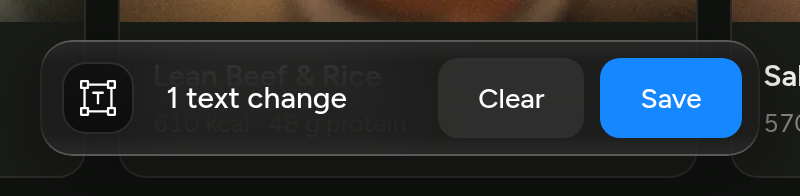
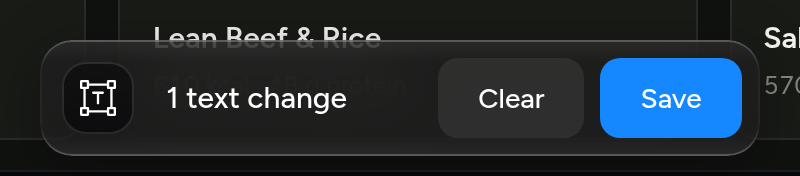
Canvas foot: the preview 2 px above the window, the edit bar 8 px above the preview
The site layer, the canvas window and the sites-shelf clip are absolute and carried their own
bottom-2 (main's padding moved nothing) — all three are bottom-0.5 now, main pb-0.5, the bar host
bottom-[10px]. The Cloud window at 2560 × 1166 is now exactly its board's 1112. Suite checks for the
bar's lift updated (29 → 10); gaps probe in scratchpad/save-bar.

Claude-Session: https://claude.ai/code/session_011pKKmWvMd1NM1LsuubYKqf

diff --git a/prototype/src/App.tsx b/prototype/src/App.tsx
@@ -705,7 +705,7 @@ function CanvasPane({ id, tone, canvas, flyer, motion: motionRef, handoff, child
         data-canvas-pane={id}
         data-pane-motion={arrivedAs}
         data-pane-fresh={fresh ? '' : undefined}
-        className="absolute bottom-2 left-2 right-0 top-0 z-10 overflow-hidden rounded-[16px]"
+        className="absolute bottom-0.5 left-2 right-0 top-0 z-10 overflow-hidden rounded-[16px]"
         /* promoted for its lifetime: the clip is written every frame of the unfold, and a layer of its
            own is what keeps that a compositor update, not a repaint of the window */
         style={{ clipPath, opacity, scale, y, transformOrigin: origin, willChange: 'clip-path, transform, opacity', zIndex: inFront ? 11 : undefined }}
@@ -1175,7 +1175,9 @@ export default function App() {
             because it answers container queries, not the browser width — the same
             thing Lovable gets for free from its preview iframe. Mobile is a real
             390px frame centred on the ground, not a scaled-down desktop. */}
-        <main ref={canvasRef} className="relative min-h-0 min-w-0 flex-1 pb-2 pl-2">
+        {/* the preview stands 2 px above the window's bottom edge (designer 02.10.2026, with a
+            zoomed frame: «превью сайта имеет отступ от низу экрана всего 2 px») — was 8 */}
+        <main ref={canvasRef} className="relative min-h-0 min-w-0 flex-1 pb-0.5 pl-2">
           {/*
             * THE PANE UNFOLDS FROM ITS BUTTON, THE SITE RECEDES UNDER IT (designer, 22.09.2026 —
             * motion.ts `canvasPane` / `canvasSite` has the law and the live product's numbers). Both
@@ -1198,7 +1200,7 @@ export default function App() {
                 key="site"
                 data-canvas-site
                 data-site-parked={surface === 'sites' ? '' : undefined}
-                className={`absolute bottom-2 left-2 right-0 top-0 ${surface === 'sites' ? 'z-20 pointer-events-none' : 'z-0'}`}
+                className={`absolute bottom-0.5 left-2 right-0 top-0 ${surface === 'sites' ? 'z-20 pointer-events-none' : 'z-0'}`}
                 /* under an arriving SHEET the site steps back like the card behind an iOS sheet —
                    smaller and a few px UP, the other way from the sheet (motion.ts `canvasSiteSheet`) */
                 variants={reduce ? canvasSiteFade : world.paneMotion === 'sheet' ? canvasSiteSheet : canvasSite}

diff --git a/prototype/src/modules/editor/EditBar.tsx b/prototype/src/modules/editor/EditBar.tsx
@@ -11,7 +11,9 @@
  * rim that is a 24 % → 4 % → 12 % white diagonal — our glass rim — radius 16, shadow 0 8 32 at 33 %,
  * padding 4, two 32 icon buttons (container radius 8, glyph 24) with a 4 gap. Blur 32 is drawn
  * as 16 here: past ~16 px Chrome's backdrop blur gets WORSE, not softer (CLAUDE.md, measured
- * 26.08.2026) — raised to the designer. It stands 29 px above the canvas's bottom edge (board:
+ * 26.08.2026) — raised to the designer. It stands 8 px above the PREVIEW's bottom edge, which stands 2 px
+ * above the window's (designer 02.10.2026, a zoomed frame: «бар с инструментами от низа сайта 8px»; it was 29
+ * above the canvas's edge, read off board 31280:85401 — the old reading kept below for the record) (board:
  * frame at y 1095 in a 1166 frame).
  *
  * WHAT LOVABLE DOES AND WHAT THIS DOES INSTEAD (audits/lovable-visual-edits-teardown.md):
@@ -666,7 +668,7 @@ export function EditBar() {
 
   return (
     <>
-      <div className="pointer-events-none absolute inset-x-0 bottom-[29px] z-30 flex justify-center" data-ve-bar-host>
+      <div className="pointer-events-none absolute inset-x-0 bottom-[10px] z-30 flex justify-center" data-ve-bar-host>
         <AnimatePresence initial={false}>
           {floating && (
             <motion.div

diff --git a/prototype/src/modules/sites/SitesShelf.tsx b/prototype/src/modules/sites/SitesShelf.tsx
@@ -188,7 +188,7 @@ export function SitesShelf() {
      * with the customer's sites on it, so the shelf paints nothing of its own: the cards and the title sit
      * on `--gray-950`, and the clip stays invisible (it only cuts the approach to the canvas box).
      */
-    <div ref={root} data-sites-clip className="absolute bottom-2 left-2 right-0 z-10 overflow-hidden rounded-[16px]" style={{ top: 'calc(-1 * var(--topbar-h))' }}>
+    <div ref={root} data-sites-clip className="absolute bottom-0.5 left-2 right-0 z-10 overflow-hidden rounded-[16px]" style={{ top: 'calc(-1 * var(--topbar-h))' }}>
     <motion.div
       data-sites-shelf
       role="dialog"

diff --git a/docs/knowledge/decisions.md b/docs/knowledge/decisions.md
@@ -157,6 +157,7 @@
 | 02.10.2026 | **Undo / Redo скрыты** (кнопки и ⌘Z / ⇧⌘Z / ⌘Y); история сессии стоит без них | «девелоперы попросили сейчас скрыть, пока у нас не будет этих функций» — заменяет заказ 30.09 | **принято (заказ)**, обратимо одной строкой | `EditBar.tsx` `history = dirty` |
 | 02.10.2026 | **Диск инструмента в состоянии Save — тёмный (Black/600 → Black/900 + рим 12 %), не синий** | Синий диск рядом с синим Save читался вторым CTA | **принято (заказ)** | `ToolButton dark` |
 | 02.10.2026 | **Трансформация: стекло ведёт и растёт из середины как настоящий бокс; инструмент едет (`layout="position"`), не масштабируется; Select уходит первым; слова и кнопки конденсируются тактом позже слева направо; Rim Sweep один раз; обратно — уход 140 мс под сжимающимся стеклом** | Правило «содержимое не двигается» — про ховер (указатель шёл к кнопке); здесь триггер — коммит текста, указатель на сайте, и бар переформируется как один объект | **принято (моё)**, ждёт слова | `GlassBar grow="center"`, `motion.ts` |
+| 02.10.2026 | **Превью стоит в 2 px от низа экрана (было 8), бар инструментов — в 8 px от низа превью (было 21 / 29 от кромки канваса)**; те же 2 px у окон канваса и полки сайтов | Дизайнер, увеличенный кадр с размеченными «8px» / «2px»; окно Cloud заодно совпало со своим бордом (1112 в кадре 1166) | **принято (заказ)** | `App.tsx` `bottom-0.5`, `EditBar.tsx` `bottom-[10px]` |
 | 02.10.2026 | **Подпись называет род правки** — `N text change(s)` / `N photo change(s)` / смешанная `N changes` | Борд рисует «1 text change»; второй род и смесь не нарисованы | **принято (моё)**, спрошено | `EditBar.tsx` `countLabel` |
 
 ## 2026-09-30 · Visual Editor как у Lovable: панель внизу превью, две кнопки, пачка правок с Undo/Redo/Clear/Save

diff --git a/CLAUDE.md b/CLAUDE.md
@@ -3743,6 +3743,11 @@ Proxima Nova, а на Figtree читаются сдвинутыми вниз (в
   держал `hover`, и бар стоял набухшим на 2 px, пока указатель не вернётся. Правило «содержимое не двигается»
   — про ХОВЕР (указатель шёл к кнопке); коммит текста случается с указателем на сайте, и бар меняет состояние
   как один объект. Закон — `design-system.md` §5 «Состояние Save», реестр §7.
+  ✅ **НИЗ КАНВАСА — 2 px, БАР — 8 px НАД ПРЕВЬЮ (02.10.2026, увеличенный кадр дизайнера: «превью сайта имеет отступ
+  от низу экрана всего 2 px, а бар с инструментами от низа сайта 8px»).** Было 8 и 21. ⚠ Нижний отступ канваса задаёт
+  НЕ паддинг `<main>`: слой сайта, окно канваса (`CanvasPane`) и клип полки сайтов — `absolute` и носят СВОЙ `bottom`
+  (теперь `bottom-0.5` у всех трёх; паддинг `main` правился первым и не сдвинул ничего). Окно Cloud при 2560 × 1166
+  этим стало 1112 — ровно свой борд; бар — `bottom-[10px]` от кромки `main`.
   ✅ **SELECT — КАК У LOVABLE ОДИН В ОДИН, В НАШЕМ СИНЕМ (01.10.2026, по его записи и трём скриншотам: «мне
   нравится как выглядит и работает (поведение) инструмент селекта, нам нужно сделать точно так же, только
   используй наш фирменный синий цвет»; покадрово — `scratchpad/lov-select/`).** Цель — ЛЮБОЙ элемент (самый

diff --git a/docs/features/visual-editor/README.md b/docs/features/visual-editor/README.md
@@ -40,7 +40,7 @@ Lovable»: инструменты стоят **внизу превью, пове
 `rgba(31,31,31,.67)`, backdrop blur **32 → у нас 16** (правило: больше ~16 в Chrome хуже, замер
 26.08.2026; поднято дизайнеру), рим — линейный градиент 24 % → 4 % → 12 % белого (наш рим стекла),
 r16, тень `0 8 32 rgba(0,0,0,.33)`, паддинг 4, две кнопки 32 (контейнер r8, глиф 24) через 4.
-Стоит по центру канваса, низ на 29 px выше нижней кромки (борд: фрейм на y 1095 в кадре 1166).
+Стоит по центру канваса, низ **на 8 px выше низа превью**, а превью — **в 2 px от низа экрана** (дизайнер 02.10.2026, увеличенный кадр с подписями «8px» и «2px»; было 29 от кромки канваса по борду 31280:85401 и превью в 8 px от низа). Те же 2 px у больших окон канваса и полки сайтов — один бокс на всех (`App.tsx` слой сайта и `CanvasPane`, `SitesShelf` клип: `bottom-0.5`); окно Cloud на 2560 × 1166 стало ровно 1112 своего борда.
 Активный инструмент — синий диск `--action` #1587ff r12, который **вырастает** из центра глифа
 (`editToolOn`, пружина `SPRING`), не фейд как у Lovable. Пока есть пачка правок, бар стоит в
 **состоянии Save** — см. §2г (борд 31562:5194, 02.10.2026): `[T] · 1 text change · Clear · Save`,

diff --git a/docs/sessions/2026-10-02--save-bar.md b/docs/sessions/2026-10-02--save-bar.md
@@ -67,3 +67,12 @@ r12 с **тёмным диском** `Black/600 → Black/900` под римом
 Остальные четыре — известные тайминговые флейки, не связанные с баром: закрытие поля через 305 мс против 300,
 складывание Cloud в кнопку рейла (две проверки), стопка листов при смене окон. Блок O 32 / 32 (после правки
 селектора синего диска), блок Q 15 / 15, пробник Select 13 / 13, пробник Save 25 / 25.
+
+## Вторая правка того же дня — отступы низа
+
+Дизайнер прислал увеличенный кадр низа с подписями: «превью сайта имеет отступ от низу экрана всего 2 px, а бар с
+инструментами от низа сайта 8px». Замер до: превью 8 от низа окна, бар 21 над превью. ⚠ Паддинг `<main>` (`pb-2`)
+правился первым и не сдвинул превью ни на пиксель: слой сайта, окно канваса и клип полки сайтов — `absolute` со своим
+`bottom-2`. Все три стали `bottom-0.5`, `main` — `pb-0.5`, хост бара — `bottom-[10px]`. После: 1600 × 900 — сайт 898,
+бар 890; 2560 × 1166 — сайт 1164, бар 1156, окно Cloud 1112 (ровно его борд). Блок O 32/32, Q 15/15, пробник 25/25;
+`scratchpad/save-bar/gaps.mjs` меряет оба зазора.
